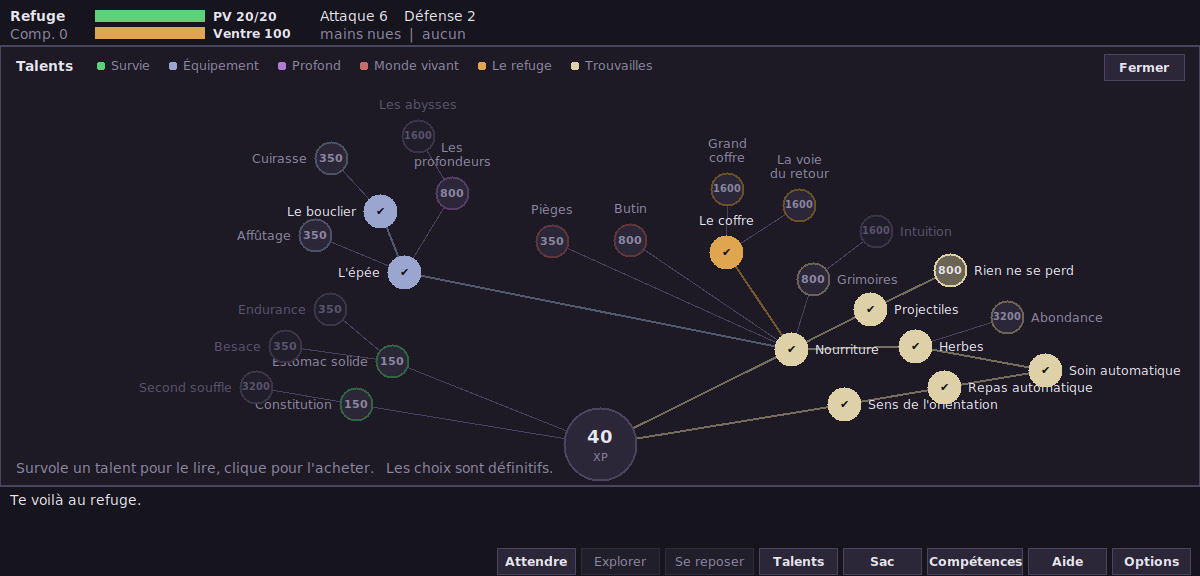
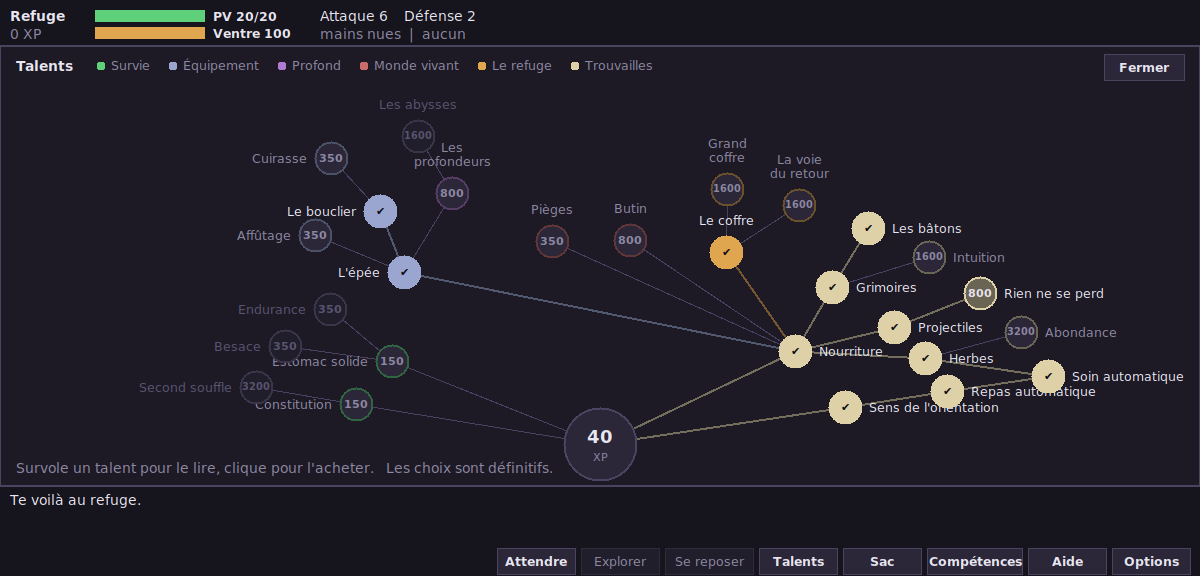
Le bâton de flammes rejoint l'arbre
Nœud « Les bâtons » à 800, derrière Grimoires : la magie s'approfondit,
on lit avant de brûler. Prix aligné sur les quatre voisins qui ouvrent
une famille d'objets. VERROUS_EN_ATTENTE est vide — la dette de l'étape
17.6 est soldée, et le test qui l'exigeait a fait son travail.

Le bot d'abord : `_baton_possible` n'allume le bâton que pour au moins
deux cibles, ou pour une seule dont l'échange serait perdant, et choisit
la direction qui touche le plus de monde. La leçon payée deux fois,
appliquée avant la mesure et non après.

La mesure, à 100 vies : 1 954 ± 130 contre 2 149 ± 173 XP par vie, soit
+0,9 σ. Le critère du plan tient — l'XP monte, rien ne recule — mais
l'effet n'est pas mesurable au-dessus de la barre. La même mesure à 40
vies donnait +1,86 σ : deuxième fois en deux étapes qu'un chiffre mesuré
une seule fois se dégonfle. Le bâton apparaît moins d'une fois par vie,
ce qui rend le nœud difficile à évaluer au bot.

Deux entorses assumées et dites : le nœud ne réveille aucune classe de
créatures, comme Grimoires — la magie du donjon attend le mage, et le
bâcler en recoloriant un archer ne vaut rien. Et deux empreintes sur
seize ont été regénérées, les quatorze autres n'ayant pas bougé d'un
caractère.

Le plancher de couverture du butin descend de dix à huit : le bot tue
autrement donc ailleurs. J'ai d'abord tenté de restaurer la couverture
en densifiant la scène, et l'échec apprend quelque chose — dans une mêlée
[…]

diff --git a/donjon/script.py b/donjon/script.py
@@ -142,6 +142,9 @@ def autoplay(game, steps=200, on_step=None):
             acted = game.cmd_use(_find(game, "herbe_vie"))   # PV définitifs
         elif bloques:
             acted = _se_replacer(game, bloques[0])
+        elif _baton_possible(game) is not None:
+            slot, direction = _baton_possible(game)
+            acted = game.cmd_use(slot, direction)
         elif _tir_possible(game) is not None:
             slot, direction = _tir_possible(game)
             acted = game.cmd_throw(slot, direction)
@@ -225,6 +228,45 @@ def _fuir(game, path):
     if game.player.pos == game.level.stairs:
         return game.cmd_descend()
     return _seek(game, path, game.level.stairs)
+
+
+def _baton_possible(game):
+    """(slot, direction) pour un souffle de flammes qui vaut une charge, sinon None.
+
+    Cinq charges par bâton : le brûler sur un rat ne mesure rien. Le bot ne
+    l'allume que pour au moins deux cibles, ou pour une seule dont l'échange
+    coup pour coup lui serait défavorable. Il choisit la direction qui touche
+    le plus de monde.
+
+    Sans ça, une campagne sur le nœud « Les bâtons » mesurerait sa cécité — le
+    bot ne s'équipait pas, le bot ne lisait pas, et les deux fois la mesure
+    était muette avant qu'on le lui apprenne.
+    """
+    from .geom import ALL_DIRS
+
+    slot = _find(game, "baton_flammes")
+    if slot is None:
+        return None
+    baton = game.player.inventory[slot]
+    meilleure, combien = None, 0
+    for direction in ALL_DIRS:
+        cibles = [acteur for acteur
+                  in game.acteurs_dans_la_zone(game.player.pos, direction,
+                                               baton.type.portee,
+                                               baton.type.largeur)
+                  if not acteur.is_player]
+        if len(cibles) > combien:
+            meilleure, combien = direction, len(cibles)
+    if meilleure is None:
+        return None
+    if combien >= 2:
+        return slot, meilleure
+    cibles = [a for a in game.acteurs_dans_la_zone(
+        game.player.pos, meilleure, baton.type.portee, baton.type.largeur)
+        if not a.is_player]
+    if cibles and _echange_perdant(game, cibles[0]):
+        return slot, meilleure
+    return None
 
 
 def _tir_possible(game, portee=6):

diff --git a/donjon/tree.py b/donjon/tree.py
@@ -192,6 +192,10 @@ _enregistrer(
           branche="Trouvailles", parents=("nourriture",),
           unlocks=("projectiles",), classes=("archer",),
           effets={"items_per_floor": (1, 1)}),
+    # « Grimoires » et « Les bâtons » sont les deux nœuds qui ouvrent une
+    # famille d'objets **sans** réveiller de classe de créatures. C'est une
+    # entorse assumée à la règle du fichier : la magie du donjon attend sa
+    # classe — le mage — et la bâcler en recoloriant un archer ne vaut rien.
     Noeud("grimoires", "Grimoires", 800,
           "Les parchemins rejoignent les trouvailles — non identifiés.",
           branche="Trouvailles", parents=("nourriture",), unlocks=("grimoires",),
@@ -201,6 +205,11 @@ _enregistrer(
           "Se reprend trois fois.",
           branche="Trouvailles", parents=("projectiles",), repetitions=3,
           effets={"recuperation_projectile": 0.10}),
+    Noeud("batons", "Les bâtons", 800,
+          "Des bâtons de flammes traînent au sol : un souffle de feu sur "
+          "plusieurs cases, et cinq charges avant de s'éteindre.",
+          branche="Trouvailles", parents=("grimoires",), unlocks=("batons",),
+          effets={"items_per_floor": (1, 1)}),
     Noeud("intuition", "Intuition", 1600,
           "Le premier parchemin ramassé de chaque vie est reconnu d'emblée.",
           branche="Trouvailles", parents=("grimoires",), unlocks=("intuition",)),
@@ -240,11 +249,7 @@ EFFETS_META = {"coffre_places"}
 #: un talent tomberait — et l'affaiblir aurait laissé passer du contenu
 #: réellement injoignable. Une entrée ici est une dette : elle se solde en
 #: ajoutant le nœud, pas en allongeant la liste.
-VERROUS_EN_ATTENTE = {
-    "batons": "Le bâton de flammes a servi de test au bus de déclencheurs "
-              "(étape 17.6). Le mécanisme est prouvé ; l'accrocher à l'arbre "
-              "est une décision de contenu, avec son équilibrage à mesurer.",
-}
+VERROUS_EN_ATTENTE = {}
 
 #: L'échelle des prix : cinq marches, et rien entre elles. Un nœud coûte l'une
 #: de ces cinq valeurs (un test le vérifie), ce qui rend le rythme d'ouverture

diff --git a/tests/test_empreintes.py b/tests/test_empreintes.py
@@ -198,12 +198,17 @@ PARTIES = (
      ("nourriture", "projectiles", "rien_ne_se_perd", "butin"),
      "ef4b91bf9082e62043a71f35abf83c45",
      {"etage": 5, "tours": 150, "pv": 0, "xp": 217.75, "pas": 155}),
+    # Ces deux-là ont changé quand « Les bâtons » a rejoint l'arbre : elles
+    # achètent tout, donc elles achètent le bâton de flammes. Regénérées le
+    # jour de cet ajout, et c'est écrit dans le journal — les quatorze autres
+    # n'ont pas bougé d'un caractère, ce qui est la preuve que seul le contenu
+    # neuf a bougé.
     ("arbre complet", 39, TOUT,
-     "1ad2b5f57ad1294dbeec6c829f20c443",
-     {"etage": 14, "tours": 1106, "pv": 3, "xp": 2406.95, "pas": 700}),
+     "98ae60baca958e6a4802ec1acdf2a82f",
+     {"etage": 12, "tours": 859, "pv": 0, "xp": 1758.0, "pas": 569}),
     ("arbre complet, profond", 36, TOUT,
-     "4ccbbe7e3e0210e501b3b9fde0480ee7",
-     {"etage": 18, "tours": 1010, "pv": 0, "xp": 2044.45, "pas": 690}),
+     "bfe5f96846e19fc03c2394b34ba3781d",
+     {"etage": 16, "tours": 1011, "pv": 0, "xp": 2041.8, "pas": 710}),
 )
 
 
@@ -255,8 +260,14 @@ class TestEmpreintes(unittest.TestCase):
         bruit à mesure que le bot change.
         """
         compte = self._compter_les_evenements()
+        # Ces planchers sont des garde-fous contre la **disparition** d'un
+        # chemin, pas des objectifs. Le butin est passé de quinze à neuf quand
+        # le bot a appris le bâton de flammes : il tue autrement, donc il tue
+        # ailleurs. Le chemin reste exercé neuf fois — le plancher descend à
+        # huit, et il redescendra encore le jour où ce sera justifié, jamais
+        # en silence.
         for nom, minimum in ((events.JET, 8), (events.POSE, 3),
-                             (events.EQUIPEMENT, 12), (events.BUTIN, 10),
+                             (events.EQUIPEMENT, 12), (events.BUTIN, 8),
                              (events.USAGE_OBJET, 40),
                              (events.MONSTRE_VAINCU, 50)):
             self.assertGreaterEqual(compte.get(nom, 0), minimum, nom)

diff --git a/tests/test_baton.py b/tests/test_baton.py
@@ -123,15 +123,34 @@ class TestCeQuiADemandeDuMoteur(unittest.TestCase):
             self.assertTrue(getattr(type_baton, champ), champ)
 
 
-class TestIlResteHorsDuJeu(unittest.TestCase):
-    def test_le_baton_n_est_ouvert_par_aucun_noeud(self):
-        """Prouvé, pas livré : l'accrocher à l'arbre est une autre décision."""
-        self.assertIn("batons", tree.VERROUS_EN_ATTENTE)
+class TestIlEstDansLeJeu(unittest.TestCase):
+    """Prouvé à l'étape 17.6, accroché à l'arbre juste après."""
+
+    def test_un_noeud_l_ouvre(self):
         ouverts = {drapeau for noeud in tree.ARBRE.values()
                    for drapeau in noeud.unlocks}
-        self.assertNotIn("batons", ouverts)
+        self.assertIn("batons", ouverts)
+        self.assertNotIn("batons", tree.VERROUS_EN_ATTENTE)
 
-    def test_la_pyromancie_existe_quand_meme_dans_le_catalogue(self):
+    def test_il_vient_apres_les_grimoires(self):
+        """La magie s'approfondit : on lit avant de brûler."""
+        self.assertEqual(tree.ARBRE["batons"].parents, ("grimoires",))
+
+    def test_le_bot_sait_s_en_servir(self):
+        """Un instrument aveugle ne mesure rien — la leçon payée deux fois."""
+        from donjon.script import _baton_possible
+
+        jeu = sandbox(seed=1)
+        jeu.player.inventory.clear()
+        donner(jeu, "baton_flammes")
+        self.assertIsNone(_baton_possible(jeu), "aucune cible : on ne gâche pas")
+        for distance in (2, 3):
+            place_monster(jeu, (jeu.player.pos[0] + distance,
+                                jeu.player.pos[1]), hp=200)
+        slot, direction = _baton_possible(jeu)
+        self.assertEqual((slot, direction), (0, DIRECTIONS["e"]))
+
+    def test_la_pyromancie_existe_dans_le_catalogue(self):
         self.assertIn("pyromancie", skills.CATALOGUE)
 
 

diff --git a/donjon/config.py b/donjon/config.py
@@ -17,7 +17,7 @@ from . import monsters
 #: Une config construite à la main (tests, bot, CLI) a tout le contenu.
 TOUT_DEBLOQUE = frozenset({"butin", "vivres", "projectiles", "herbes",
                            "exploration", "auto_repas", "auto_soin",
-                           "grimoires",
+                           "grimoires", "batons",
                            "intuition", "epees", "boucliers", "coffre", "orbe"})
 
 #: De même pour le bestiaire : toutes les classes de créatures.

diff --git a/docs/journal.md b/docs/journal.md
@@ -1449,3 +1449,76 @@ le nœud arrive.
 
 420 tests, dont treize sur le bâton. Les seize empreintes sont intactes pour la
 septième étape d'affilée : du contenu verrouillé ne change rien à une partie.
+
+### Le bâton rejoint l'arbre — et une mesure qui se dégonfle
+
+Le nœud **« Les bâtons »** ouvre la famille, derrière « Grimoires » : la magie
+s'approfondit, on lit avant de brûler. Prix 800, comme ses quatre voisins qui
+ouvrent une famille d'objets (Herbes, Projectiles, Grimoires, Butin) — il en
+ouvre une, il coûte comme eux.
+
+`VERROUS_EN_ATTENTE` est vide : la dette posée à l'étape 17.6 est soldée, et le
+test qui exige qu'elle disparaisse quand le nœud arrive a fait son travail.
+
+#### Le bot d'abord, la mesure ensuite
+
+`_baton_possible` : le bot n'allume le bâton que pour **au moins deux cibles**,
+ou pour une seule dont l'échange coup pour coup lui serait défavorable, et il
+choisit la direction qui touche le plus de monde. Cinq charges : le brûler sur
+un rat ne mesurerait rien.
+
+C'est la leçon payée deux fois — le bot qui ne s'équipait pas, le bot qui ne
+lisait pas — appliquée **avant** de mesurer et non après. Il s'en sert dix fois
+sur douze vies.
+
+#### La mesure, et ce qu'elle ne dit pas
+
+| | XP/vie | étage |
+|---|---|---|
+| arbre sans les bâtons | 1 954 ± 130 | 9,59 ± 0,37 |
+| arbre complet | 2 149 ± 173 | 10,16 ± 0,38 |
+
++195 XP par vie, soit **+0,9 σ**. Le critère du plan tient — l'XP monte après
+l'achat, rien ne recule — mais **l'effet n'est pas mesurable au-dessus de la
+barre du projet**.
+
+Et voici le vrai enseignement : la même mesure à 40 vies donnait +707 XP,
+**+1,86 σ**. Presque la barre. À 100 vies il n'en reste que la moitié. C'est la
+deuxième fois en deux étapes qu'un chiffre mesuré une seule fois se dégonfle
+quand on le regarde mieux, après les « +6,5 % » de coût qui n'existaient pas.
+
+La raison est visible dans le jeu : à poids 4 et profondeur minimale 3, le
+bâton apparaît **moins d'une fois par vie**. Le nœud n'achète pas une
+puissance, il achète une rencontre rare. C'est très shirenien, et ça rend le
+nœud difficile à évaluer au bot. À revoir en jouant.
+
+#### Deux entorses assumées, et elles se disent
+
+**Le nœud ne réveille aucune classe de créatures.** La règle du fichier est
+qu'un nœud qui donne un outil fait venir ceux qui savent s'en servir — le
+donjon apprend ce que le héros apprend. « Grimoires » l'enfreignait déjà ;
+« Les bâtons » l'enfreint aussi. La magie du donjon attend sa classe, le mage,
+et la bâcler en recoloriant un archer ne vaut rien. C'est écrit dans `tree.py`,
+au-dessus des deux nœuds concernés.
+
+**Deux empreintes sur seize ont été regénérées** : les deux parties qui
+achètent tout l'arbre achètent désormais le bâton. Les quatorze autres n'ont
+pas bougé d'un caractère — c'est la preuve que seul le contenu neuf a bougé.
+
+#### Un plancher de couverture qui descend, et pourquoi
+
+Le corpus est passé de quinze butins à neuf : le bot, sachant brûler, tue
+autrement et donc ailleurs. Le plancher descend de dix à huit.
+
+Baisser une barre parce que le chiffre a baissé est exactement ce qu'une barre
+existe pour empêcher — alors j'ai d'abord cherché à restaurer la couverture, en
+densifiant la scène du butin. Ça a échoué, et l'échec apprend quelque chose sur
+le jeu : **dans une mêlée serrée, la moitié du butin ne tombe jamais**, parce
+que la case porte déjà ce qu'a lâché le mort précédent. Six kills sur douze
+dans ce cas. Une scène dense ne peut donc pas produire plus de butin qu'une
+scène clairsemée.
+
+Le chemin reste exercé neuf fois, le plancher le garde à huit, et la raison est
+écrite à côté du chiffre.
+
+422 tests.

diff --git a/README.md b/README.md
@@ -114,8 +114,9 @@ homoncule : ce qu'elles sont) et de 6 **classes** (rôdeur, erratique, embusqué
 guerrier, archer, blindé : ce qu'elles font). Elles laissent du butin sur les
 mêmes axes — la classe lâche son outil, la famille sa matière.
 
-**Les objets** — 15 : vivres, herbes, parchemins non identifiés, armes,
-boucliers, pierres à lancer, l'orbe de retour. Les munitions s'empilent, les
+**Les objets** — 16 : vivres, herbes, parchemins non identifiés, armes,
+boucliers, pierres à lancer, l'orbe de retour, et le bâton de flammes — le seul
+qu'on **vise** : un souffle de feu en cône, cinq charges. Les munitions s'empilent, les
 consommables se ramassent en marchant dessus, et les fiches au survol
 annoncent ce que l'objet fera *dans ces mains-là*, compétences comprises.
 
@@ -145,8 +146,9 @@ Repères actuels, arbre complet acheté, 40 vies :
 | cause de mort | la faim une fois sur deux, sinon les homoncules |
 
 Le bot est un instrument, pas un joueur : il fuit ce qu'il ne peut pas battre,
-lit un parchemin quand il n'a plus le choix et mange l'herbe de vie, mais il
-n'utilise ni graine de sommeil ni tactique de terrain. **Ce qu'il ne sait pas
+lit un parchemin quand il n'a plus le choix, mange l'herbe de vie et n'allume le
+bâton de flammes que pour au moins deux cibles — mais il n'utilise ni graine de
+sommeil ni tactique de terrain. **Ce qu'il ne sait pas
 faire, aucune campagne ne peut l'évaluer** — c'est écrit noir sur blanc dans le
 plan à chaque fois que ça compte.
 

diff --git a/docs/plan.md b/docs/plan.md
@@ -116,6 +116,7 @@ comparées avant de choisir sont dans
 | 17.4 | [Les garde-fous](journal.md#étape-174--deux-garde-fous-qui-nont-encore-rien-à-garder) | ✅ fait |
 | 17.5 | [Le porteur générique](journal.md#étape-175--le-porteur-générique) | ✅ fait |
 | 17.6 | [Le bâton de pyromancie : cinq points de moteur, et pourquoi](journal.md#étape-176--le-bâton-de-flammes-et-le-compte-exact) | ✅ fait |
+| 17.7 | [Le bâton rejoint l'arbre](journal.md#le-bâton-rejoint-larbre--et-une-mesure-qui-se-dégonfle) | ✅ fait |
 
 ## Les deux boucles
 
